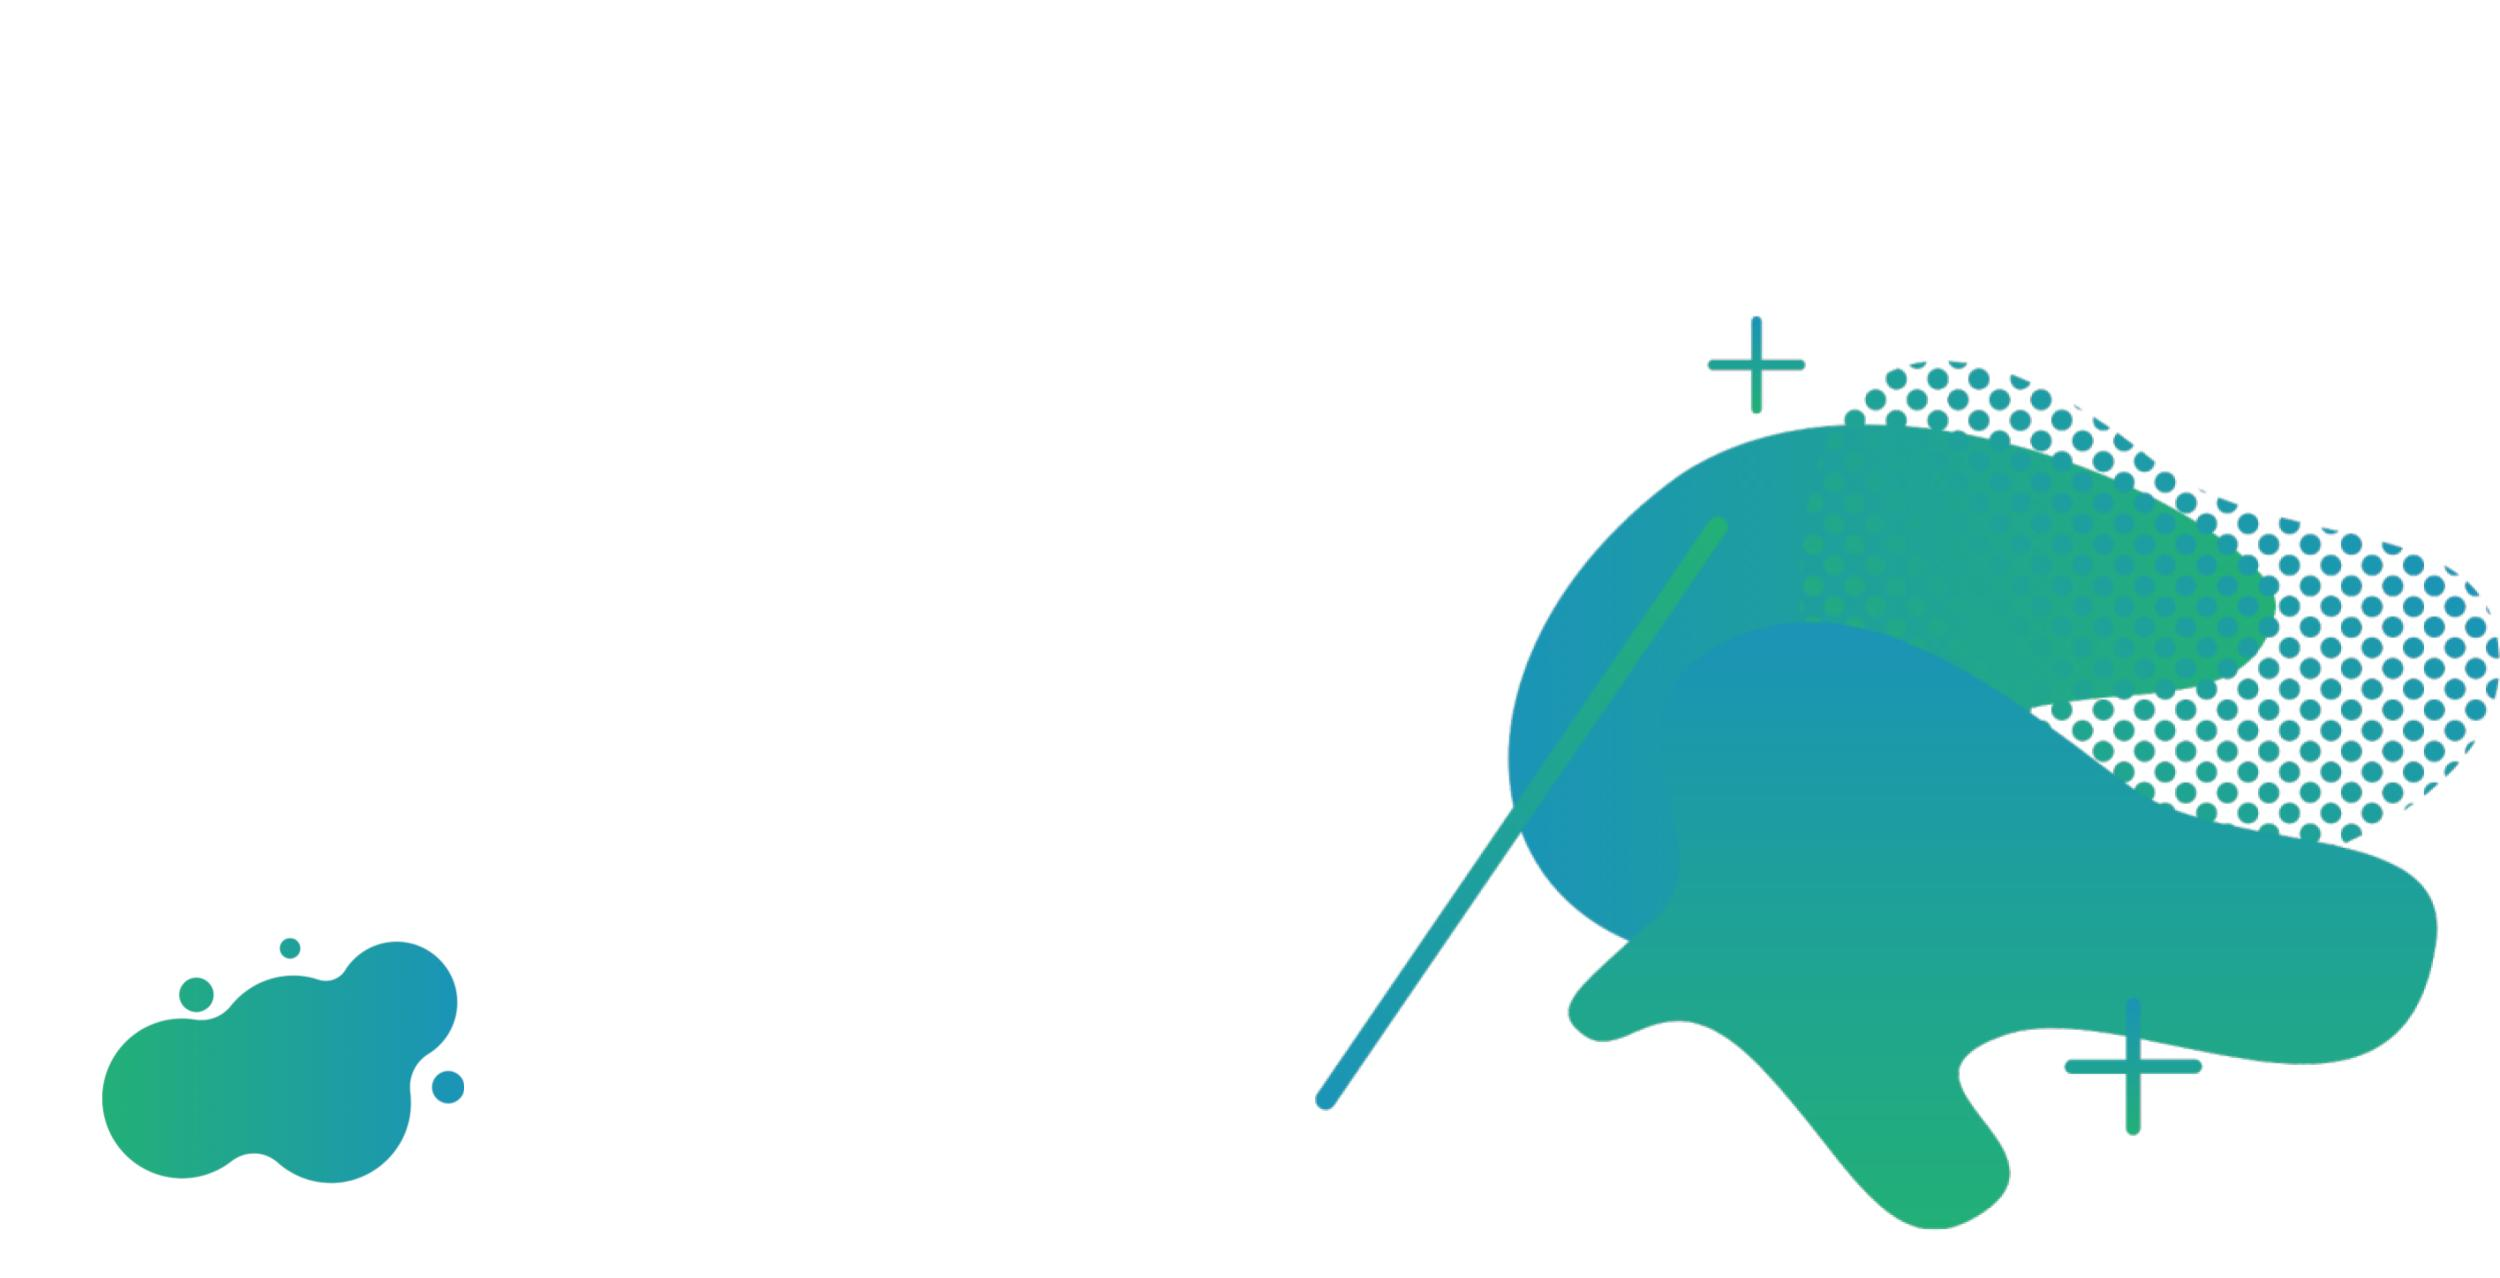
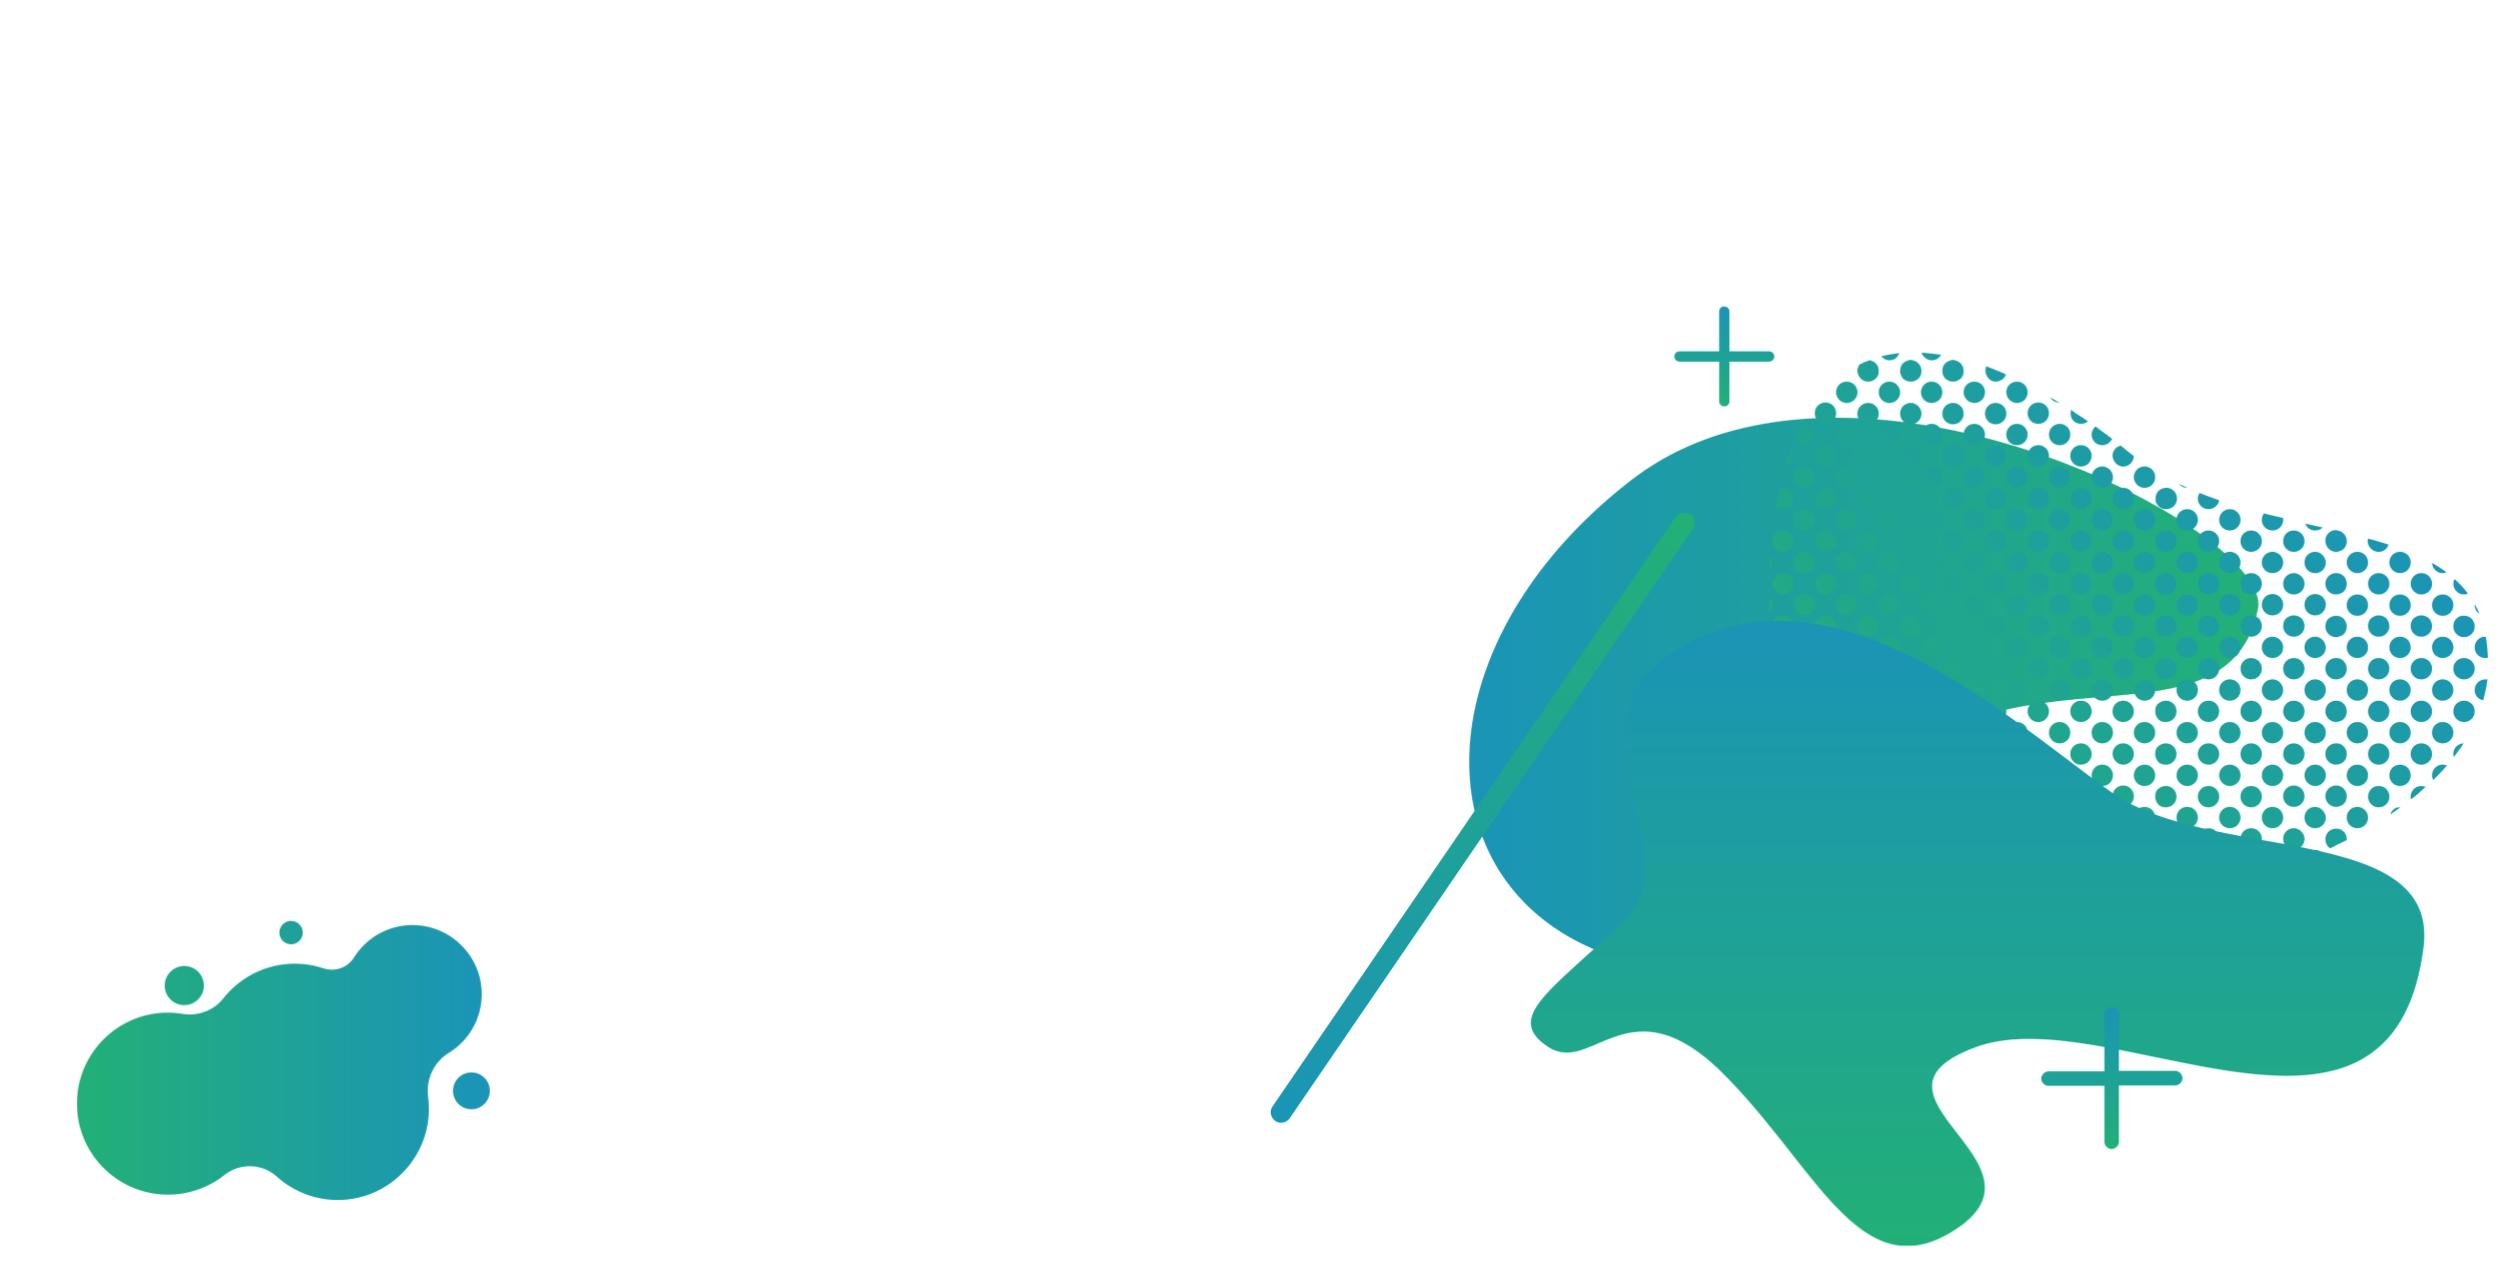
hopefully better quality

diff --git a/index.html b/index.html
@@ -61,7 +61,7 @@
 	  </nav>
     <!-- END nav -->
     
-    <div class="hero-wrap js-fullheight" style="background-image: url('images/bg_1.jpg');" data-stellar-background-ratio="0.5">
+    <div class="hero-wrap js-fullheight" style="background-image: url('images/bg_1.png');" data-stellar-background-ratio="0.5">
       <!-- <div class="overlay"></div> -->
       <div class="container">
         <div class="row no-gutters slider-text js-fullheight align-items-center justify-content-start" data-scrollax-parent="true">
